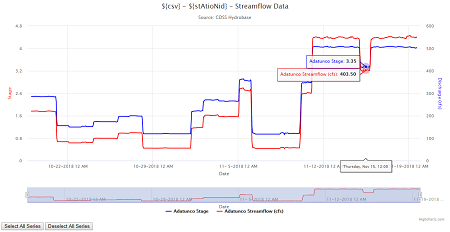
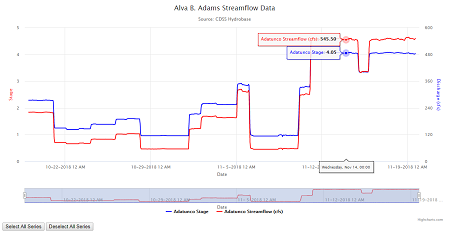
Simplified Multiple-Axis, cleaned code and updated picture

diff --git a/Timeseries/TSTool-Multiple-Axis/index.html b/Timeseries/TSTool-Multiple-Axis/index.html
@@ -14,66 +14,7 @@
 
         <script>
 
-            var configurationFile = "./data-files/config1.json";
-            var url = new URL(window.location.href);
-            //Create a properties object to store different values from the URL under their corresponding names
-            var properties = {};
-
-            var StationIdValue = url.searchParams.get("stationId");
-            properties.stationid = StationIdValue;
-
-            var csvValue = url.searchParams.get("csv");
-            properties.csv = csvValue;
-
-            //Parse a title from the JSON file for values inside '${ }' and replace with values from the URL
-            //If the value inside the delimiters does not appear in the URL, it is ignored and not updated
-            function expand_parameter_value(title, properties){
-                var search_pos = 0,
-                    delim_start = "${",
-                    delim_end = "}";
-                var b = "";
-
-                while(search_pos < title.length){
-                    //begining search_pos is inclusive
-                    var found_pos_start = title.indexOf(delim_start, search_pos)
-                    console.log(found_pos_start);
-                    //end search_pos is exclusive, so add 1
-                    //otherwise, the new search position will start on an end delimiter
-                    var found_pos_end = title.indexOf(delim_end, search_pos + 1)
-                    var prop_val = ""
-                    var prop_name = title.substr((found_pos_start + 2), ((found_pos_end - found_pos_start) - 2))
-                    
-                    //make property names case-insensitive
-                    prop_name = prop_name.toLowerCase();
-
-                    //replace prop_val with the corresponding value from properties (if it doesn't exist, this makes prop_val null)
-                    prop_val = properties[prop_name];
- 
-                    //end condition:  if no more delimiters are present in title, the .indexOf method sets found_pos to -1
-                    if(found_pos_start == -1){
-                        return b;
-                    }
-                    //If the value is not in the URL, do not change the title
-                    //move search position to the end of the delimiter set
-                    if (prop_val == null){
-                        b = title;
-                        search_pos = found_pos_end;
-                        title = b;
-                    }
-                    //If the value is in the URL (and thus also in properties), change the title by removing the delimiters and replacing prop_name with prop_value (from the URL)
-                    //update search_pos to position just after end delimiter
-                    else {
-                        b = title.substr(0, found_pos_start) + prop_val + title.substr(found_pos_end + 1, title.length);
-                        search_pos = found_pos_start + prop_val.length;
-                        title = b;
-                    }
-                }
-
-
-                return b;
-
-            }
-
+            configurationFile = "./data-files/config1.json";
 
             var myChart;
             $.ajax({
@@ -96,9 +37,6 @@
                         // jQuery command to get/read file from csv
                         $.get(dataFile, function(csvData) {
                         	myChart = Highcharts.chart('container', {
-                        		//title: {
-                                //    text: title
-                                //},
                                 data: {
                                     //custom parser for dateTime
                                     parseDate: function (dateTime) {
@@ -111,15 +49,6 @@
                         	});
                             //update properties that depend on data
                         	myChart.update(data.Properties);
-
-                            //Update title based on URL data
-                            var newTitle = data.Properties.title.text;
-                            newTitle = expand_parameter_value(newTitle, properties);
-                            myChart.update({
-                                title: {
-                                    text: newTitle
-                                }
-                            });
                         });
                     });
                 }
@@ -138,6 +67,7 @@
             }
         </script>
     </div>
+    <!--Add buttons to bottom of chart div-->
     <button id="selectAll" onclick="selectAllFunction()">Select All Series</button>
     <button id="deselectAll" onclick="deselectAllFunction()">Deselect All Series</button>
     

diff --git a/Timeseries/simple-annotations-example/index.html b/Timeseries/simple-annotations-example/index.html
@@ -1,7 +1,7 @@
 <!DOCTYPE html>
 <html>
 <head>
-    <title>Simple Example</title>
+    <title>Simple Annotations Example</title>
     <!-- Javascript -->
     <script src="javascript/highstock.js"></script>
     <script src="javascript/annotations.js"></script>
